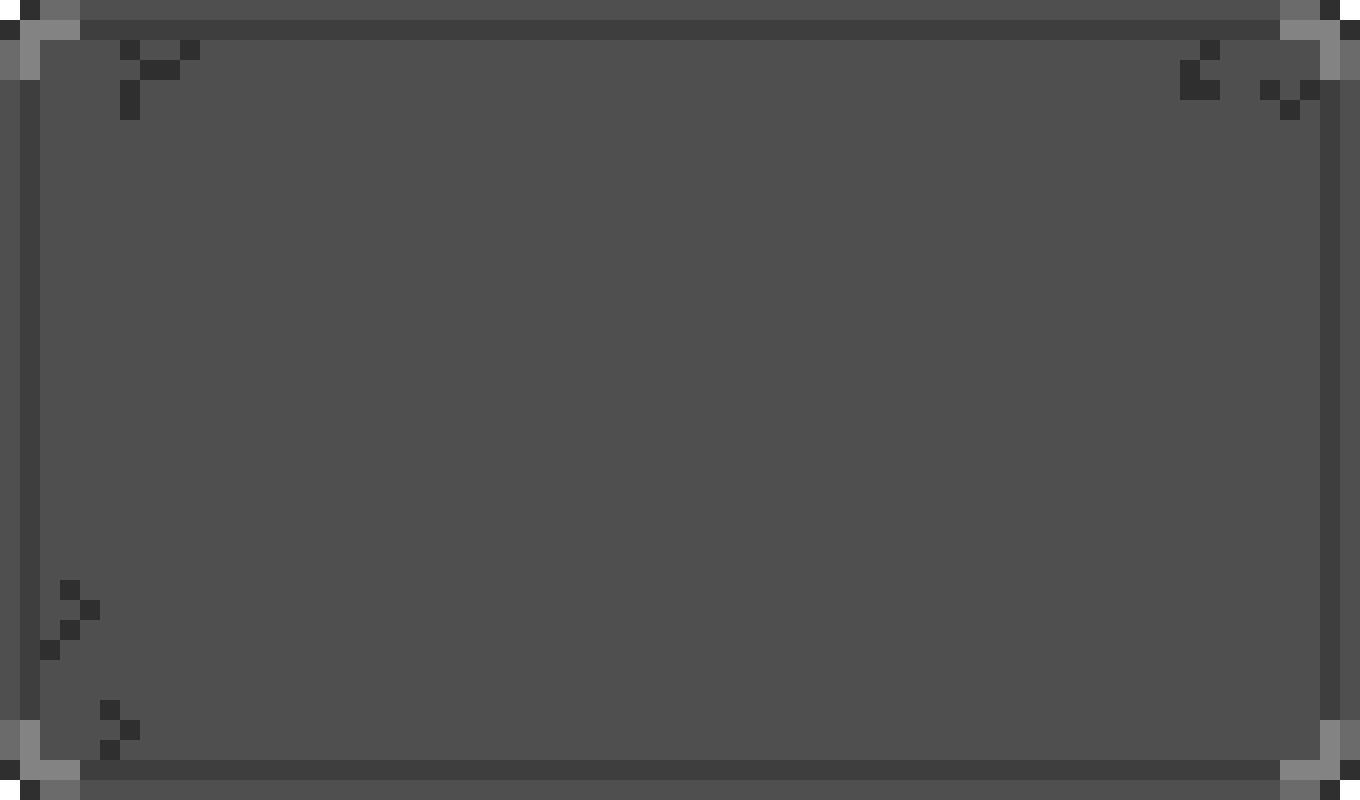
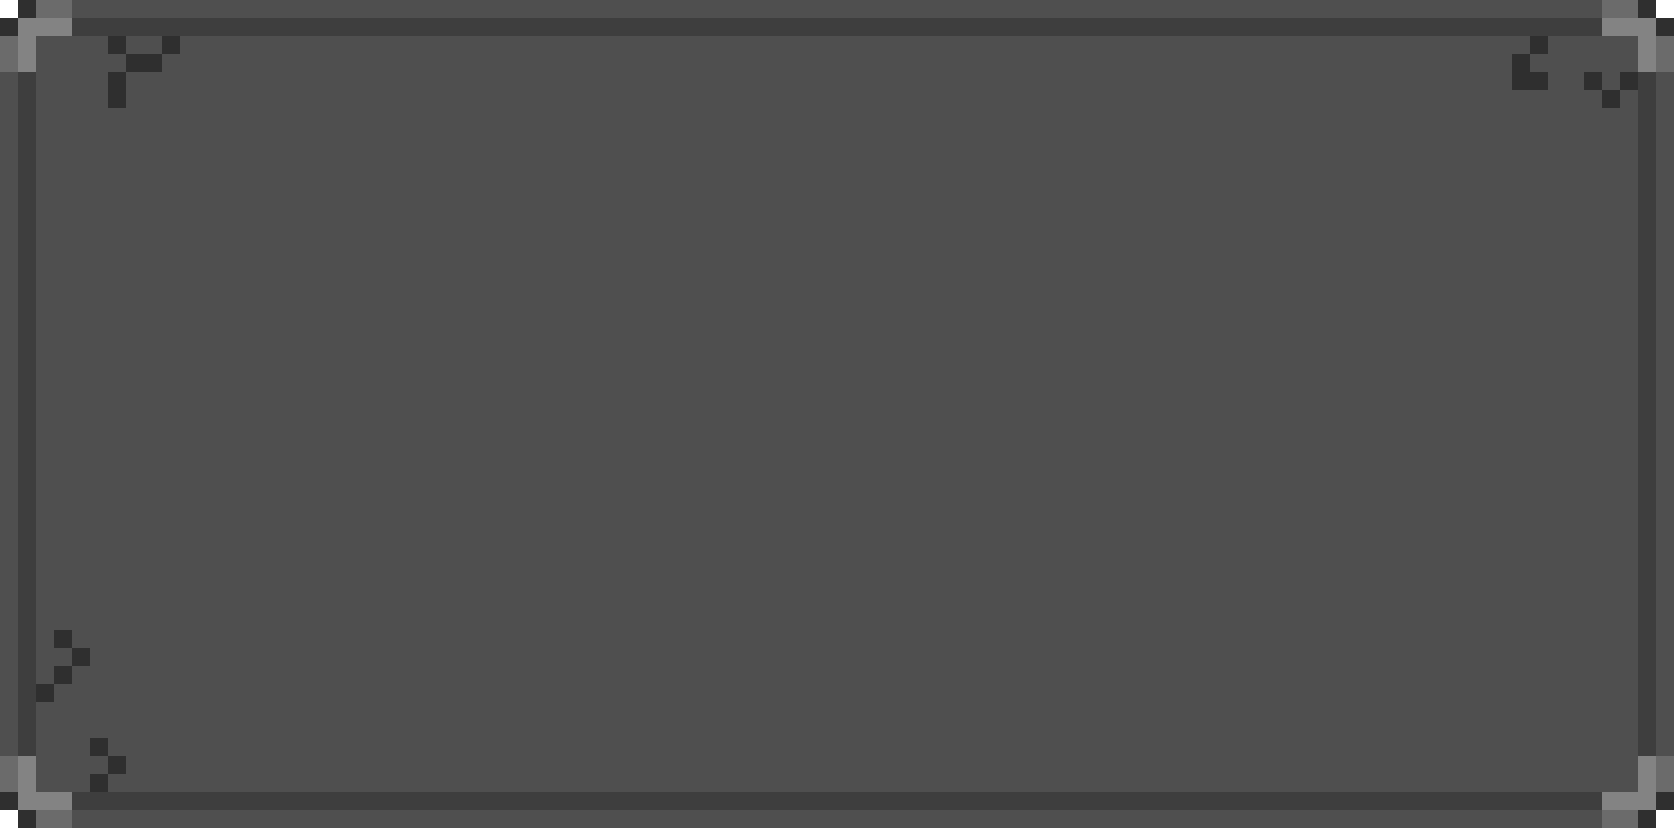
-Adicionado os arquivos via upload
-Continuado o desenvolvimento de tela de status do personagem (botão de fechar, texto "stats" no topo, aba de aumentar status e imagem da skin)

diff --git a/html/game.html b/html/game.html
@@ -544,6 +544,60 @@
    <section class="player-stats-container">
     <img src="../img/character-stats-screen.png" alt="" class="player-stats-image-screen">
     <img src="../img/character-stats-close-button.png" alt="" class="character-stats-close-button">
+    <img src="../img/ribbon.png" alt="" class="ribbon-stats">
+
+    <section class="player-stats-content">
+        <span class="player-stats">
+            <div class="stats-text-buttons-container">
+                <h5>Strength</h5>
+                <div style="display: flex;">
+                    <button>+</button>
+                    <button>-</button>
+                </div>
+            </div>
+            <div class="stats-text-buttons-container">
+                <h5>Intelligence</h5>
+                <div style="display: flex;">
+                    <button>+</button>
+                    <button>-</button>
+                </div>
+            </div>
+            <div class="stats-text-buttons-container">
+                <h5>Luck</h5>
+                <div style="display: flex;">
+                    <button>+</button>
+                    <button>-</button>
+                </div>
+            </div>
+            <div class="stats-text-buttons-container">
+                <h5>Dexterity</h5>
+                <div style="display: flex;">
+                    <button>+</button>
+                    <button>-</button>
+                </div>
+            </div>
+            <div class="stats-text-buttons-container">
+                <h5>Defense</h5>
+                <div style="display: flex;">
+                    <button>+</button>
+                    <button>-</button>
+                </div>
+            </div>
+            <div class="stats-text-buttons-container">
+                <h5>Vitality</h5>
+                <div style="display: flex;">
+                    <button>+</button>
+                    <button>-</button>
+                </div>
+            </div>
+        </span>
+        <span class="player-stats-skin">
+            <img src="../img/mini-mage.gif" alt="" class="mini-mage-stats">
+            <span class="player-level-stats">Level: <h5>47</h5></span>
+        </span>
+        <span class="player-stats-kills"></span>
+    </section>
+
    </section>
 
    <script src="../js/battle.js"></script>

diff --git a/css/game.css b/css/game.css
@@ -576,10 +576,14 @@ body {
     position: absolute;
     top: 50%;
     left: 50%;
-    width: 1360px;
-    height: 800px;
+    width: 1674px;
+    height: 828px;
     transform: translate(-50%,-50%);
     z-index: 9999999;
+}
+
+.player-stats-container img {
+    image-rendering: pixelated;
 }
 
 .player-stats-image-screen {
@@ -590,6 +594,84 @@ body {
     position: absolute;
     bottom: -1.5%;
     right: 6%;
+}
+
+.ribbon-stats {
+    position: absolute;
+    top: -5%;
+    left: 50%;
+    transform: translateX(-50%);
+}
+
+.player-stats-content {
+    width: 100%;
+    height: 828px;
+    display: flex;
+    justify-content: center;
+    align-items: center;
+}
+
+.player-stats {
+    width: 33%;
+    height: 100%;
+    display: flex;
+    justify-content: center;
+    align-items: center;
+    flex-direction: column;
+    z-index: 9999999;
+}
+
+.stats-text-buttons-container {
+    width: 320px;
+    display: flex;
+    justify-content:space-between;
+    font-size: 1.3rem;
+}
+
+.stats-text-buttons-container h5 {
+    margin: 20px;
+}
+
+.stats-text-buttons-container button {
+    width: 50px;
+    height: 50px;
+    background-color: transparent;
+    margin-left: 10px;
+    font-family: 'DePixel', sans-serif;
+    cursor: pointer;
+    border: 3px solid black;
+    transition: 0.2s all;
+}
+
+.stats-text-buttons-container button:hover {
+    background-color: #c6c6c6;
+}
+
+.player-stats-skin {
+    width: 400px;
+    height: 500px;
+    display: flex;
+    flex-direction: column;
+    justify-content: space-around;
+    align-items: center;
+    font-size: 1.4rem;
+    z-index: 9999999;
+}
+
+.mini-mage-stats {
+    width: 275px;
+    
+}
+
+.player-level-stats {
+    display: flex;
+}
+
+.player-stats-kills {
+    width: 33%;
+    height: 800px;
+    background-color: red;
+    z-index: 9999999;
 }
 
 
